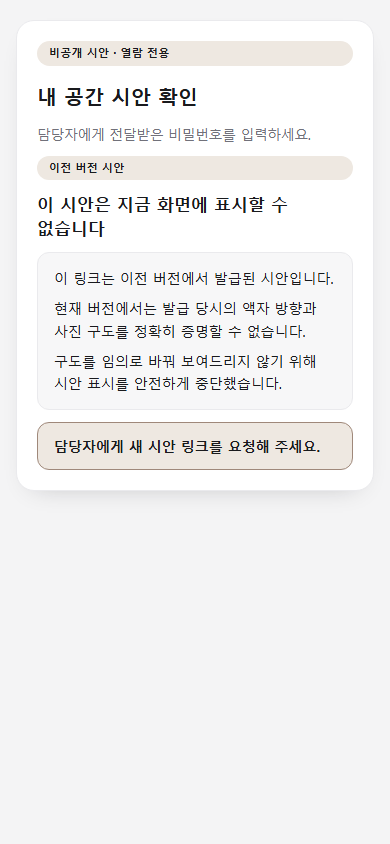
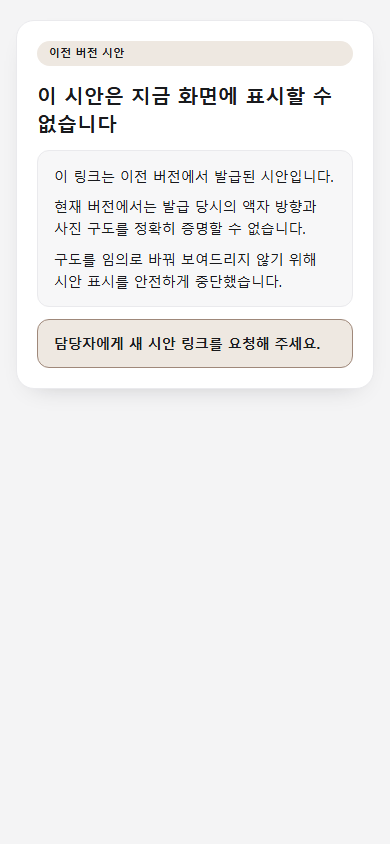
spec 087: let the authenticated Space screen own its title
Closes spec 084 F-3. SpacePasswordGate printed its badge, its `내 공간 시안 확인`
heading and `담당자에게 전달받은 비밀번호를 입력하세요.` in every state, so a customer
who had already entered the password saw two titles and an instruction for
something they had just done.

Before authentication nothing moves: the gate keeps its badge, heading,
instruction, form and status copy exactly as they were, and the
space-v2-password-gate-390x844.png baseline is byte-identical.

After it, the gate drops its badge and heading when the ready body brings its
own title, and drops the instruction whenever the password has been accepted.
The condition is the one renderReadyBody already branches on - is a seam
injected - so the two can never disagree, and the spec 061 fallback, which has
no heading of its own, keeps the gate's rather than ending up with no title at
all.

The three result screens then own the page heading: SpaceV2ProofView (the real
V2 route), the V1 frame view and the V1 blocked notice each promote their
existing h2 to h1. Same text, same class, same id, so every aria-labelledby
still resolves to a real element; only the level moved. No new customer copy
exists anywhere in this change, and both result badges stay.

SpaceV2ProofView was not in the contract's file list, which named only
SpacePostAuthFrameView. It had to be included: it is what the product V2 route
renders, so without it the "exactly one h1" invariant the contract asks for is
[…]

Changed region(s): [[0.0923, 0.0308, 0.8615, 0.4621], [0.0923, 0.4929, 0.8, 0.5545], [0.8923, 0.4005, 0.9231, 0.4313]]

diff --git a/tests/e2e/space-production-route.spec.ts b/tests/e2e/space-production-route.spec.ts
@@ -481,6 +481,113 @@ test("unmounting the V2 route leaves no canvas and starts no deferred work", asy
   expect(probe.consoleProblems).toEqual([]);
 });
 
+// --- spec 087: one title after authentication ---------------------------------
+//
+// Closes spec 084 F-3, measured on this same surface: the gate printed `내 공간 시안 확인` and
+// `담당자에게 전달받은 비밀번호를 입력하세요.` in EVERY state, so the authenticated screen carried two
+// headings and an instruction the customer had already followed. What is asserted here is the
+// rendered document — how many `h1`s exist and whether the prompt is still in the DOM — because the
+// component contract alone does not prove what the customer ends up looking at.
+
+const GATE_TITLE = "내 공간 시안 확인";
+const PASSWORD_PROMPT = "담당자에게 전달받은 비밀번호를 입력하세요.";
+
+/** Every heading on the page, in document order, as `level: text`. */
+const headings = (page: Page): Promise<string[]> =>
+  page.evaluate(() =>
+    [...document.querySelectorAll("h1, h2, h3, h4, h5, h6")].map(
+      (node) => `${node.tagName.toLowerCase()}: ${(node.textContent ?? "").trim()}`,
+    ),
+  );
+
+const SURFACE_VIEWPORTS = [
+  { name: "390x844", width: 390, height: 844 },
+  { name: "1280x800", width: 1280, height: 800 },
+] as const;
+
+for (const viewport of SURFACE_VIEWPORTS) {
+  test(`spec 087 @ ${viewport.name}: the V2 result owns the only title and the prompt is gone`, async ({
+    page,
+  }) => {
+    const probe = await installProbe(page);
+    await page.setViewportSize({ width: viewport.width, height: viewport.height });
+    await page.goto(v2Url("v2"));
+
+    // §1 — before authentication the gate is unchanged: its own title and its instruction.
+    await expect(page.getByRole("heading", { level: 1, name: GATE_TITLE })).toBeVisible();
+    await expect(page.getByText(PASSWORD_PROMPT)).toBeVisible();
+    expect(await headings(page)).toEqual([`h1: ${GATE_TITLE}`]);
+
+    await authenticateWith(page, "SYNTHETIC_PASSWORD");
+    await expect(page.getByTestId("preview-canvas")).toBeVisible();
+    await settle(page);
+    await expect(page.getByTestId("canvas-status")).toHaveText("미리보기가 준비되었습니다.");
+
+    // §3 — exactly one heading, and it is the result's own. No level is skipped because there is
+    // only one, and the gate's title and instruction are gone from the DOM, not merely hidden.
+    expect(await headings(page)).toEqual(["h1: 내 공간 시안"]);
+    await expect(page.getByText(GATE_TITLE)).toHaveCount(0);
+    await expect(page.getByText(PASSWORD_PROMPT)).toHaveCount(0);
+    // the badge that carries the "열람 전용" state is still there
+    await expect(page.getByTestId("space-v2-proof-view")).toContainText("저장된 시안 · 열람 전용");
+
+    // the section is still named by that heading, so promoting the level named nothing away.
+    // The V2 route's result is `SpaceV2ProofView`, whose section is labelled `space-v2-proof-title`
+    // (`space-frame-title` belongs to the V1 frame view, which this route never reaches).
+    const labelled = await page.evaluate(() => {
+      const section = document.querySelector('[aria-labelledby="space-v2-proof-title"]');
+      const target = document.getElementById("space-v2-proof-title");
+      return { hasSection: section !== null, resolves: target !== null, tag: target?.tagName };
+    });
+    expect(labelled).toEqual({ hasSection: true, resolves: true, tag: "H1" });
+
+    const overflow = await page.evaluate(
+      () => document.documentElement.scrollWidth - document.documentElement.clientWidth,
+    );
+    expect(overflow, "document horizontal overflow").toBeLessThanOrEqual(0);
+
+    const accessibility = await new AxeBuilder({ page }).analyze();
+    expect(
+      accessibility.violations.filter((v) => v.impact === "serious" || v.impact === "critical"),
+    ).toEqual([]);
+    expect(probe.consoleProblems).toEqual([]);
+    expect(probe.requests).toEqual([]);
+  });
+}
+
+test("spec 087: the V1 blocked notice is the only title and asks for no password again", async ({
+  page,
+}) => {
+  const probe = await installProbe(page);
+  await page.goto(FIXTURE_URL);
+
+  await expect(page.getByRole("heading", { level: 1, name: GATE_TITLE })).toBeVisible();
+  await expect(page.getByText(PASSWORD_PROMPT)).toBeVisible();
+
+  await authenticate(page);
+  await expect(page.getByTestId("space-frame-view")).toBeVisible();
+
+  expect(await headings(page)).toEqual([`h1: ${BLOCKED_HEADING}`]);
+  await expect(page.getByText(GATE_TITLE)).toHaveCount(0);
+  await expect(page.getByText(PASSWORD_PROMPT)).toHaveCount(0);
+  // the safe-stop contract itself is untouched: still an alert, still no retry affordance
+  await expect(page.getByTestId("space-frame-status")).toHaveAttribute("role", "alert");
+  await expect(page.getByTestId("space-frame-view").getByRole("button")).toHaveCount(0);
+
+  const labelled = await page.evaluate(() => {
+    const section = document.querySelector('[aria-labelledby="space-frame-blocked-title"]');
+    const target = document.getElementById("space-frame-blocked-title");
+    return { hasSection: section !== null, resolves: target !== null, tag: target?.tagName };
+  });
+  expect(labelled).toEqual({ hasSection: true, resolves: true, tag: "H1" });
+
+  const accessibility = await new AxeBuilder({ page }).analyze();
+  expect(
+    accessibility.violations.filter((v) => v.impact === "serious" || v.impact === "critical"),
+  ).toEqual([]);
+  expect(probe.consoleProblems).toEqual([]);
+});
+
 // --- spec 080 representative screenshots (synthetic fixture only) -----------
 //
 // The fixture's own "화면 해제" control is harness scaffolding, not product UI. It is hidden in the

diff --git a/apps/mockup/src/space/SpacePasswordGate.test.tsx b/apps/mockup/src/space/SpacePasswordGate.test.tsx
@@ -187,6 +187,98 @@ describe("SpacePasswordGate", () => {
     expect(html).not.toContain("PRIVATE_OWNER_MARKER");
   });
 
+  // --- spec 087 (spec 084 F-3): one title after authentication ------------------
+  //
+  // The audit screenshot showed `내 공간 시안 확인` above `내 공간 시안`, plus an instruction to type
+  // a password the customer had already typed. These pin the rule that removes it — and pin the
+  // fallback that must NOT lose its heading.
+
+  const PASSWORD_PROMPT = "담당자에게 전달받은 비밀번호를 입력하세요.";
+  const GATE_TITLE = "내 공간 시안 확인";
+  const GATE_BADGE = "비공개 시안 · 열람 전용";
+
+  it.each([
+    ["awaiting", { status: "awaiting-password", requestId: 1 }],
+    ["loading", { status: "loading", requestId: 1 }],
+    ["invalid-link", { status: "invalid-link", requestId: 1 }],
+    ["error", { status: "error", requestId: 1, code: "SPACE_VIEW_UNEXPECTED", retryable: false }],
+  ] as const)("keeps the gate header and the prompt before authentication (%s)", (_name, state) => {
+    const html = renderToStaticMarkup(
+      <SpacePasswordGate controller={pinned(state as never)} renderReadyV2={() => <p>X</p>} />,
+    );
+    expect(html).toContain(GATE_BADGE);
+    expect(html).toContain(`<h1>${GATE_TITLE}</h1>`);
+    expect(html).toContain(PASSWORD_PROMPT);
+  });
+
+  it("drops the gate header and the prompt once a V2 result is on screen", () => {
+    const html = renderToStaticMarkup(
+      <SpacePasswordGate
+        controller={pinned({
+          status: "ready",
+          requestId: 1,
+          v2: {
+            plan: {
+              kind: "frame",
+              logicalCanvas: { width: 320, height: 480 },
+              commands: [],
+            } as never,
+            imageBindings: { get: () => undefined },
+          },
+        })}
+        renderReadyV2={() => <h1 id="space-frame-title">V2_CHILD_TITLE</h1>}
+      />,
+    );
+    expect(html).toContain("V2_CHILD_TITLE");
+    expect(html).not.toContain(GATE_TITLE);
+    expect(html).not.toContain(GATE_BADGE);
+    expect(html).not.toContain(PASSWORD_PROMPT);
+    // exactly one heading level 1 remains: the result's own
+    expect(html.split("<h1").length - 1).toBe(1);
+  });
+
+  it("drops the gate header and the prompt once a V1 result is on screen", () => {
+    const html = renderToStaticMarkup(
+      <SpacePasswordGate
+        controller={pinned({
+          status: "ready",
+          requestId: 1,
+          value: { ownerLabel: "o", createdAt: "c", scene: readyScene },
+        })}
+        renderReady={() => <h1 id="space-frame-blocked-title">V1_CHILD_TITLE</h1>}
+      />,
+    );
+    expect(html).toContain("V1_CHILD_TITLE");
+    expect(html).not.toContain(GATE_TITLE);
+    expect(html).not.toContain(PASSWORD_PROMPT);
+    expect(html.split("<h1").length - 1).toBe(1);
+  });
+
+  it("keeps its own header when the ready body is the spec 061 fallback", () => {
+    // No seam injected: `pendingNotice` has no heading of its own, so taking the gate's away
+    // would leave the screen with no title at all. The prompt still goes — nothing is left to type.
+    const html = renderToStaticMarkup(
+      <SpacePasswordGate
+        controller={pinned({
+          status: "ready",
+          requestId: 1,
+          v2: {
+            plan: {
+              kind: "frame",
+              logicalCanvas: { width: 320, height: 480 },
+              commands: [],
+            } as never,
+            imageBindings: { get: () => undefined },
+          },
+        })}
+      />,
+    );
+    expect(html).toContain("시안 인증이 완료되었습니다.");
+    expect(html).toContain(`<h1>${GATE_TITLE}</h1>`);
+    expect(html).toContain(GATE_BADGE);
+    expect(html).not.toContain(PASSWORD_PROMPT);
+  });
+
   it("shows the safe V2 failure wording without a code", () => {
     const html = renderToStaticMarkup(
       <SpacePasswordGate

diff --git a/apps/mockup/src/space/SpacePasswordGate.tsx b/apps/mockup/src/space/SpacePasswordGate.tsx
@@ -78,6 +78,18 @@ export function SpacePasswordGate({
     return renderReady === undefined ? pendingNotice : renderReady(ready.value.scene);
   };
 
+  /**
+   * spec 087 (spec 084 F-3): whether the ready body brings its own title.
+   *
+   * The condition is EXACTLY the one `renderReadyBody` already branches on — is a seam injected —
+   * so the two can never disagree. The gate does not look inside the child to decide: the
+   * `pendingNotice` fallback has no heading of its own, and taking the gate's away would leave that
+   * screen with no title at all.
+   */
+  const readyBodyOwnsTitle =
+    snapshot.status === "ready" &&
+    ("v2" in snapshot ? renderReadyV2 !== undefined : renderReady !== undefined);
+
   const awaiting = snapshot.status === "awaiting-password";
   const retryableError = snapshot.status === "error" && snapshot.retryable;
   const canSubmit = awaiting || retryableError;
@@ -87,9 +99,20 @@ export function SpacePasswordGate({
       <div className="denn-shell__inner">
         <Card>
           <div className="denn-stack">
-            <Badge>비공개 시안 · 열람 전용</Badge>
-            <h1>내 공간 시안 확인</h1>
-            <p>담당자에게 전달받은 비밀번호를 입력하세요.</p>
+            {/*
+              spec 087: before authentication this is the whole screen, so it stays exactly as it
+              was. Once the result is on screen the result owns the title, and repeating a second
+              heading here — plus an instruction the customer has already followed — is what spec
+              084 F-3 reported. The instruction goes as soon as the password is accepted, whether or
+              not a seam is injected: there is nothing left to type either way.
+            */}
+            {readyBodyOwnsTitle ? null : (
+              <>
+                <Badge>비공개 시안 · 열람 전용</Badge>
+                <h1>내 공간 시안 확인</h1>
+              </>
+            )}
+            {snapshot.status === "ready" ? null : <p>담당자에게 전달받은 비밀번호를 입력하세요.</p>}
 
             {canSubmit ? (
               // A real form: Enter in the password field submits it, exactly as a browser user

diff --git a/apps/mockup/src/space/SpacePostAuthFrameView.tsx b/apps/mockup/src/space/SpacePostAuthFrameView.tsx
@@ -125,9 +125,11 @@ function SpaceReplayBlockedNotice(): React.JSX.Element {
       data-testid="space-frame-view"
     >
       <Badge>이전 버전 시안</Badge>
-      <h2 className="denn-space-blocked__title" id="space-frame-blocked-title">
+      {/* spec 087: the gate no longer prints a title above this notice, so this IS the page's
+          heading. The id and the section's `aria-labelledby` are unchanged. */}
+      <h1 className="denn-space-blocked__title" id="space-frame-blocked-title">
         이 시안은 지금 화면에 표시할 수 없습니다
-      </h2>
+      </h1>
       {/* role="alert": the state appears in response to the password being accepted, so it is
           announced at the moment the reader is waiting for the result. */}
       <div className="denn-space-blocked__body" role="alert" data-testid="space-frame-status">
@@ -249,7 +251,9 @@ function SpaceExactFrameComposition({
       data-testid="space-frame-view"
     >
       <Badge>저장된 시안 · 열람 전용</Badge>
-      <h2 id="space-frame-title">내 공간 시안</h2>
+      {/* spec 087: the only heading on the authenticated screen. Same text, same id, same
+          `aria-labelledby` — only the level moves, because the gate's own title is gone. */}
+      <h1 id="space-frame-title">내 공간 시안</h1>
       <p>저장된 액자 구성을 확인할 수 있습니다.</p>
       <div ref={width.ref} data-testid="space-frame-measure" style={{ width: "100%" }}>
         {view.status === "ready" ? (

diff --git a/apps/mockup/src/space/SpacePostAuthFrameView.test.tsx b/apps/mockup/src/space/SpacePostAuthFrameView.test.tsx
@@ -136,4 +136,16 @@ describe("SpacePostAuthFrameView V1 preflight", () => {
     expect(html).toContain('aria-labelledby="space-frame-blocked-title"');
     expect(html).toContain('id="space-frame-blocked-title"');
   });
+
+  // spec 087 (spec 084 F-3): the gate no longer prints a title above this notice, so the notice's
+  // own heading became the page heading. Only the LEVEL moved — the text, the class and the id
+  // that `aria-labelledby` resolves against are unchanged, so the section keeps its name.
+  it("carries the page heading itself, with the labelling relationship intact", () => {
+    const { html } = renderBlocked(IDENTITY);
+    expect(html).toContain(
+      '<h1 class="denn-space-blocked__title" id="space-frame-blocked-title">이 시안은 지금 화면에 표시할 수 없습니다</h1>',
+    );
+    expect(html).not.toContain("<h2");
+    expect(html.split("<h1").length - 1).toBe(1);
+  });
 });

diff --git a/apps/mockup/src/space-v2/SpaceV2ProofView.tsx b/apps/mockup/src/space-v2/SpaceV2ProofView.tsx
@@ -26,7 +26,10 @@ export function SpaceV2ProofView({
       data-testid="space-v2-proof-view"
     >
       <Badge>저장된 시안 · 열람 전용</Badge>
-      <h2 id="space-v2-proof-title">내 공간 시안</h2>
+      {/* spec 087 (spec 084 F-3): the gate no longer prints `내 공간 시안 확인` above this, so this is
+          the only heading the authenticated customer sees. Same text, same id, same
+          `aria-labelledby` — only the level moved. */}
+      <h1 id="space-v2-proof-title">내 공간 시안</h1>
       <p>저장된 액자 구성을 확인할 수 있습니다.</p>
       <PreviewCanvasSurface
         plan={plan}

diff --git a/apps/mockup/src/space-v2/SpaceV2ProofView.test.tsx b/apps/mockup/src/space-v2/SpaceV2ProofView.test.tsx
@@ -77,5 +77,8 @@ describe("SpaceV2ProofView", () => {
     const html = renderToStaticMarkup(<SpaceV2ProofView plan={plan()} imageBindings={bindings} />);
     expect(html).toContain('aria-labelledby="space-v2-proof-title"');
     expect(html).toContain('id="space-v2-proof-title"');
+    // spec 087: it is the page heading now, and the id the section is named by is unchanged
+    expect(html).toContain('<h1 id="space-v2-proof-title">내 공간 시안</h1>');
+    expect(html).not.toContain("<h2");
   });
 });
